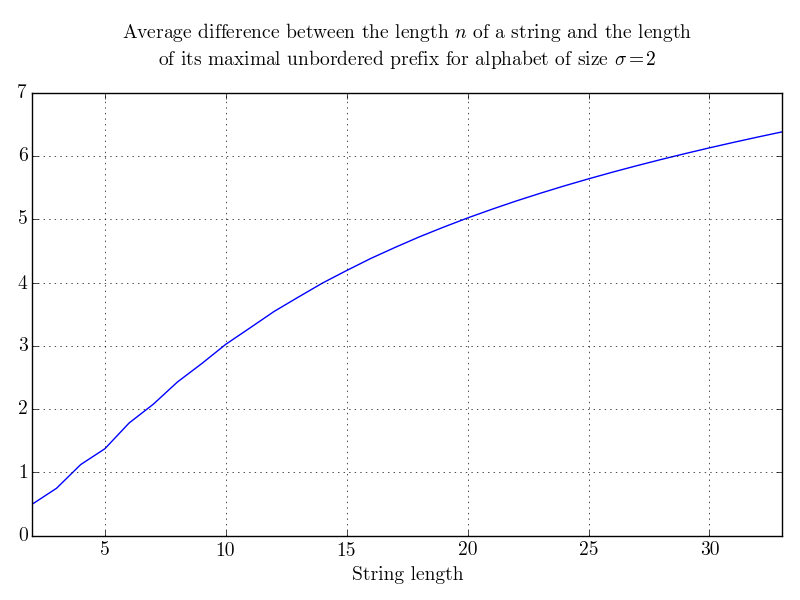
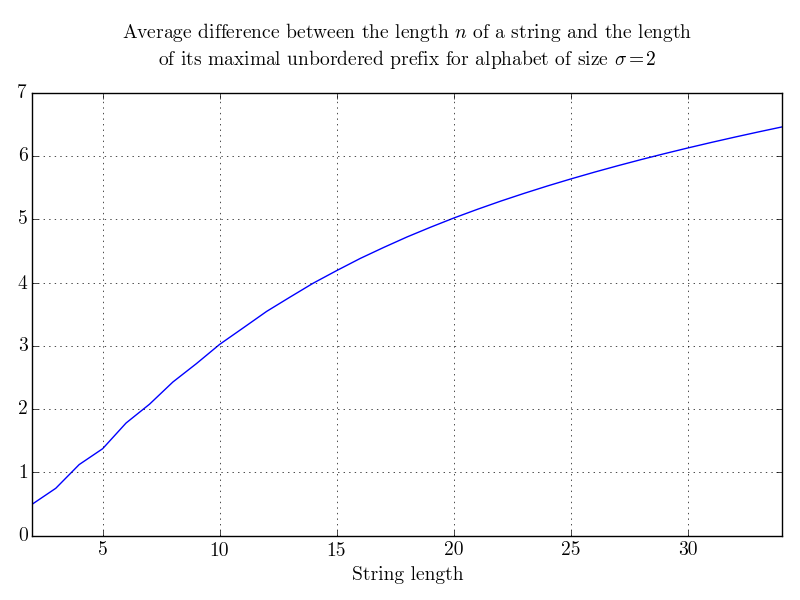
more images for max borderless prefix

diff --git a/src/py/printer.py b/src/py/printer.py
@@ -1,0 +1,57 @@
+# -*- coding: utf-8 -*-
+from __future__ import division
+from collections import defaultdict
+
+
+TEMPLATE = '''
+##### The average difference between the length of a string and the length of its maximal unbordered {entity} length
+
+{diff_table}
+
+##### The average length of the maximal unbordered {entity} length of a string
+
+{value_table}
+'''
+
+
+def justify_numbers(numbers, width=7):
+    result = ''
+    for number in numbers:
+        if isinstance(number, int):
+            result += str(number).rjust(width)
+        else:
+            result += '{:.3f}'.format(number).rjust(width)
+    return result
+
+
+if __name__ == '__main__':
+    entity = 'prefix'
+    values = defaultdict(lambda: defaultdict(int))
+
+    max_binary_value = 0
+    max_non_binary_value = 0
+
+    with open('max_borderless_{}.txt'.format(entity)) as fd:
+        for line in fd:
+            alphabet, length, value = [int(i) for i in line.strip().split()]
+            values[alphabet][length] = value
+            if alphabet == 2 and length > max_binary_value:
+                max_binary_value = length
+            elif alphabet != 2 and length > max_non_binary_value:
+                max_non_binary_value = length
+
+    for alphabets, length in [([2], max_binary_value), (values.keys(), max_non_binary_value)]:
+        table = '     | ' + ' | '.join(str(i) for i in xrange(2, length + 1)) + '\n'
+        table += ' --: | ' + ' | '.join('--:' for i in xrange(2, length + 1)) + '\n'
+        diff_table = value_table = table
+
+        for alphabet in alphabets:
+            results = [values[alphabet][i] / alphabet ** i for i in xrange(2, length + 1)]
+            diff_results = [i - values[alphabet][i] / alphabet ** i for i in xrange(2, length + 1)]
+            value_table += '{} | '.format(alphabet) + ' | '.join('{:.3f}'.format(i) for i in results) + '\n'
+            diff_table += '{} | '.format(alphabet) + ' | '.join('{:.3f}'.format(i) for i in diff_results) + '\n'
+
+        with open('max_borderless_{}_{}.md'.format(entity, alphabets[-1]), 'w') as fd:
+            fd.write(TEMPLATE.format(entity=entity, diff_table=diff_table, value_table=value_table))
+
+

diff --git a/src/py/max_borderless_prefix_2.md b/src/py/max_borderless_prefix_2.md
@@ -1,14 +1,14 @@
 
 ##### The average difference between the length of a string and the length of its maximal unbordered prefix length
 
-     | 2 | 3 | 4 | 5 | 6 | 7 | 8 | 9 | 10 | 11 | 12 | 13 | 14 | 15 | 16 | 17 | 18 | 19 | 20 | 21 | 22 | 23 | 24 | 25 | 26 | 27 | 28 | 29 | 30 | 31 | 32 | 33
- --: | --: | --: | --: | --: | --: | --: | --: | --: | --: | --: | --: | --: | --: | --: | --: | --: | --: | --: | --: | --: | --: | --: | --: | --: | --: | --: | --: | --: | --: | --: | --: | --:
-2 | 0.500 | 0.750 | 1.125 | 1.375 | 1.781 | 2.078 | 2.430 | 2.719 | 3.025 | 3.284 | 3.545 | 3.771 | 3.993 | 4.192 | 4.383 | 4.556 | 4.722 | 4.876 | 5.022 | 5.159 | 5.289 | 5.411 | 5.529 | 5.640 | 5.746 | 5.848 | 5.946 | 6.039 | 6.130 | 6.216 | 6.300 | 6.382
+     | 2 | 3 | 4 | 5 | 6 | 7 | 8 | 9 | 10 | 11 | 12 | 13 | 14 | 15 | 16 | 17 | 18 | 19 | 20 | 21 | 22 | 23 | 24 | 25 | 26 | 27 | 28 | 29 | 30 | 31 | 32 | 33 | 34
+ --: | --: | --: | --: | --: | --: | --: | --: | --: | --: | --: | --: | --: | --: | --: | --: | --: | --: | --: | --: | --: | --: | --: | --: | --: | --: | --: | --: | --: | --: | --: | --: | --: | --:
+2 | 0.500 | 0.750 | 1.125 | 1.375 | 1.781 | 2.078 | 2.430 | 2.719 | 3.025 | 3.284 | 3.545 | 3.771 | 3.993 | 4.192 | 4.383 | 4.556 | 4.722 | 4.876 | 5.022 | 5.159 | 5.289 | 5.411 | 5.529 | 5.640 | 5.746 | 5.848 | 5.946 | 6.039 | 6.130 | 6.216 | 6.300 | 6.382 | 6.460
 
 
 ##### The average length of the maximal unbordered prefix length of a string
 
-     | 2 | 3 | 4 | 5 | 6 | 7 | 8 | 9 | 10 | 11 | 12 | 13 | 14 | 15 | 16 | 17 | 18 | 19 | 20 | 21 | 22 | 23 | 24 | 25 | 26 | 27 | 28 | 29 | 30 | 31 | 32 | 33
- --: | --: | --: | --: | --: | --: | --: | --: | --: | --: | --: | --: | --: | --: | --: | --: | --: | --: | --: | --: | --: | --: | --: | --: | --: | --: | --: | --: | --: | --: | --: | --: | --:
-2 | 1.500 | 2.250 | 2.875 | 3.625 | 4.219 | 4.922 | 5.570 | 6.281 | 6.975 | 7.716 | 8.455 | 9.229 | 10.007 | 10.808 | 11.617 | 12.444 | 13.278 | 14.124 | 14.978 | 15.841 | 16.711 | 17.589 | 18.471 | 19.360 | 20.254 | 21.152 | 22.054 | 22.961 | 23.870 | 24.784 | 25.700 | 26.618
+     | 2 | 3 | 4 | 5 | 6 | 7 | 8 | 9 | 10 | 11 | 12 | 13 | 14 | 15 | 16 | 17 | 18 | 19 | 20 | 21 | 22 | 23 | 24 | 25 | 26 | 27 | 28 | 29 | 30 | 31 | 32 | 33 | 34
+ --: | --: | --: | --: | --: | --: | --: | --: | --: | --: | --: | --: | --: | --: | --: | --: | --: | --: | --: | --: | --: | --: | --: | --: | --: | --: | --: | --: | --: | --: | --: | --: | --: | --:
+2 | 1.500 | 2.250 | 2.875 | 3.625 | 4.219 | 4.922 | 5.570 | 6.281 | 6.975 | 7.716 | 8.455 | 9.229 | 10.007 | 10.808 | 11.617 | 12.444 | 13.278 | 14.124 | 14.978 | 15.841 | 16.711 | 17.589 | 18.471 | 19.360 | 20.254 | 21.152 | 22.054 | 22.961 | 23.870 | 24.784 | 25.700 | 26.618 | 27.540
 
